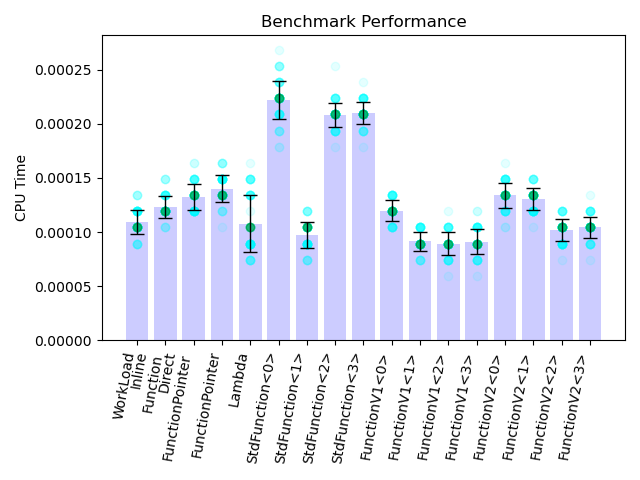
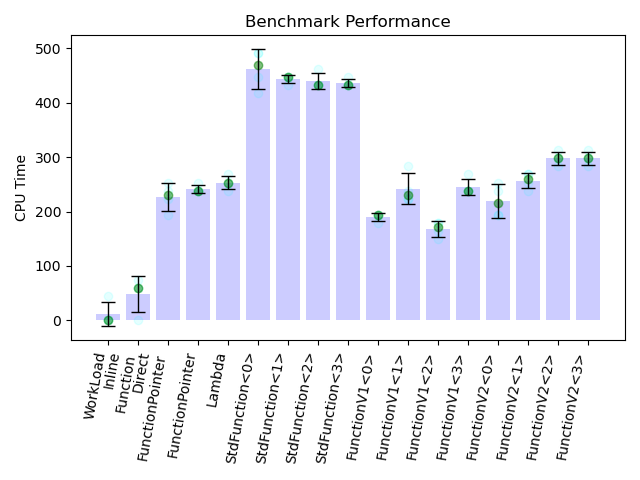
[benchmark]

diff --git a/src/test/test_function.cpp b/src/test/test_function.cpp
@@ -1,4 +1,4 @@
-
+#include <array>
 #include <gtest/gtest.h>
 #include <numeric>
 #include "../delegate/function.h"
@@ -28,6 +28,54 @@ private:
 };
 #endif
 
+
+namespace test_move
+{
+    struct A {
+        A() = default;
+        A(const A&) {
+            std::cout << "copy A" << std::endl;
+        }
+        A(A&&) {
+            std::cout << "move A" << std::endl;
+        }
+    };
+
+
+    struct B {
+        B() = default;
+        B(const B&) {
+            std::cout << "copy B" << std::endl;
+        }
+        B(B&&) {
+            std::cout << "move B" << std::endl;
+        }
+    };
+
+    template<int Size>
+    struct F {
+        std::array<char, Size> padding;
+        B operator()(A) { return {}; }
+    };
+
+    void test(auto&& f) {
+        f(A{});
+        std::cout << "----" << std::endl;
+    }
+}
+
+TEST(function, test_function_param_move)
+{
+    using namespace test_move;
+
+    test(auto_delegate::function<B(A)>{F<0>{}});
+    test(auto_delegate::function<B(A)>{F<1>{}});
+    test(auto_delegate::function<B(A)>{F<2>{}});
+    test(auto_delegate::function<B(A)>{F<3>{}});
+    test(auto_delegate::function<B(A)>{F<256>{}});
+    test(auto_delegate::function<B(A)>{F<4>{}});
+    test(auto_delegate::function<B(A)>{F<5>{}});
+}
 
 TEST(function, test_function)
 {

diff --git a/src/delegate/function.h b/src/delegate/function.h
@@ -103,8 +103,8 @@ namespace auto_delegate::function_v1
         invoker_t invoker;
         manager_t manager;
         static constexpr size_t inline_storage_size = sizeof(data);
-        static constexpr uintptr_t pointer_mask = ~uintptr_t(1);
-        static constexpr uintptr_t non_trivial_bit_mask = 1;
+        static constexpr uintptr_t non_trivial_bit_mask = uintptr_t(1) << (sizeof(uintptr_t)*8-1);
+        static constexpr uintptr_t pointer_mask = ~non_trivial_bit_mask;
 
         [[nodiscard]] bool non_trivial() const
         {
@@ -448,8 +448,8 @@ namespace auto_delegate::function_v2
         void* invoker;
         manager_t manager;
         static constexpr size_t inline_storage_size = sizeof(data);
-        static constexpr uintptr_t non_trivial_bit_mask = 1 << 0;
-        static constexpr uintptr_t validator_bit_mask = 1 << 1;
+        static constexpr uintptr_t non_trivial_bit_mask = uintptr_t(1) << (sizeof (uintptr_t) * 8 - 1);
+        static constexpr uintptr_t validator_bit_mask = non_trivial_bit_mask >> 1;
         static constexpr uintptr_t tag_mask = non_trivial_bit_mask | validator_bit_mask;
         static constexpr uintptr_t pointer_mask = ~(tag_mask);
 

diff --git a/src/benchmark/auto_delegate_bench_mark.cpp b/src/benchmark/auto_delegate_bench_mark.cpp
@@ -108,11 +108,11 @@ struct C
 };
 
 #ifdef NDEBUG
-static constexpr size_t class_count = 1 << 6;
+static constexpr size_t class_count = 1 << 7;
 #else
 static constexpr size_t class_count = 1 << 2;
 #endif
-static constexpr size_t object_count = 1 << 6;
+static constexpr size_t object_count = 1 << 7;
 static constexpr size_t per_class_count = object_count / class_count;
 
 const auto min_warm_up = 1 << 0;
@@ -122,7 +122,7 @@ const uint64_t invoke_count = 1 << 20;
 const uint64_t invoke_count = 1 << 2;
 #endif
 
-#define BENCHMARK_ARGS ->Iterations(invoke_count)->MeasureProcessCPUTime()->Unit(benchmark::kMillisecond)
+#define BENCHMARK_ARGS ->Iterations(invoke_count)
 
 
 template<auto>

diff --git a/benchmark_display.py b/benchmark_display.py
@@ -37,7 +37,7 @@ def main():
         executable = os.getcwd() + r"/build/windows/x64/release/DelegateBenchmark.exe"
     elif sys.platform.startswith('linux'):
         executable = os.getcwd() + r"/build/linux/x64/release/DelegateBenchmark"
-    options = f"--benchmark_repetitions=64 --benchmark_format=json --benchmark_out={benchmark_file}"
+    options = f"--benchmark_repetitions=4 --benchmark_format=json --benchmark_out={benchmark_file}"
 
     #check exist for executable
     if not os.path.exists(executable):

diff --git a/src/benchmark/benchmark.cpp b/src/benchmark/benchmark.cpp
@@ -13,7 +13,7 @@ int main(int argc, char** argv)
 {
     #ifdef _WIN32
     SetThreadPriority(GetCurrentThread(), THREAD_PRIORITY_TIME_CRITICAL);
-    SetThreadAffinityMask(GetCurrentThread(), (1 << 0));
+    SetThreadAffinityMask(GetCurrentThread(), (1 << 2));
     #endif
 
 #ifdef NDEBUG
